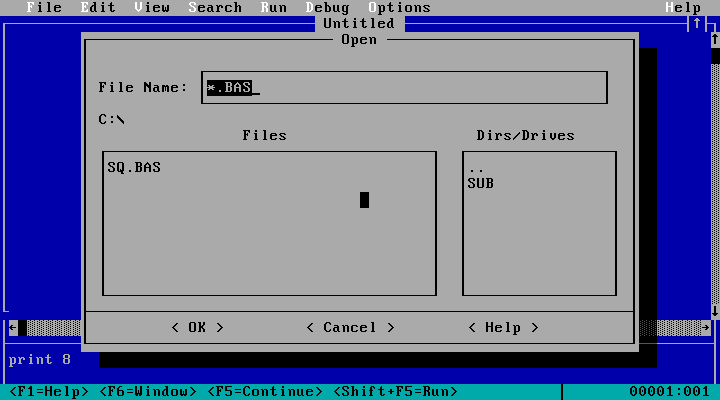
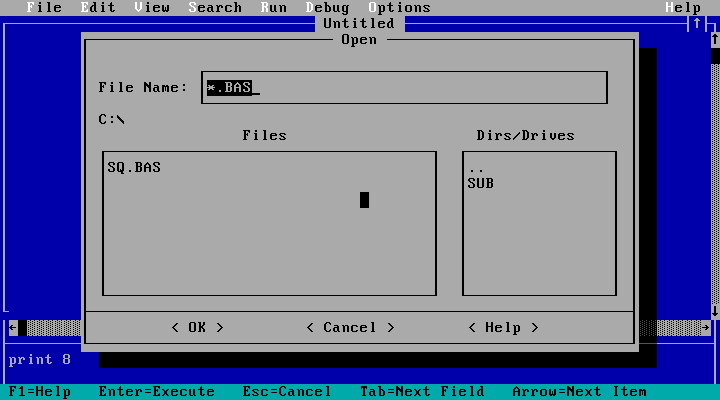
feat(x86): IDE status lines as QBasic's

Changed region(s): [[0.0, 0.96, 0.6722, 1.0], [0.7028, 0.96, 1.0, 0.99]]

diff --git a/tools/x86ide_test.py b/tools/x86ide_test.py
@@ -97,7 +97,8 @@ def play() -> None:
     press("home")  # past the indent Enter kept
     keys("next\n")
     assert text()[:3] == ["FOR I=1 TO 3", "  PRINT I*I", "NEXT"], text()
-    look("editor")
+    # QBasic's status lines (qbasmsgs.txt), less the keys we lack.
+    assert look("editor")[24].startswith(" <SHIFT+F1=HELP> <F6=WINDOW> <F5=RUN>  "), look()[24]
     press(f"0x{F5:x}")
     look("output")
     out = output()
@@ -107,6 +108,7 @@ def play() -> None:
     # The immediate window: output on page 1. The prompt once stayed there,
     # in front of the next output.
     press("f6")
+    assert look()[24].startswith(" <SHIFT+F1=HELP> <F6=WINDOW> <ENTER=EXECUTE LINE>  "), look()[24]
     keys("print 6*7\n")
     press("space")
     assert output()[24] == "", output()
@@ -123,7 +125,9 @@ def play() -> None:
     s.resume(100)  # Alt let go while the menu waits
     press("down")
     scr = look()
-    assert any("OPEN..." in r for r in scr) and "LOADS A FILE" in scr[24], scr
+    assert any("OPEN..." in r for r in scr) and scr[24].startswith(" F1=HELP   LOADS A FILE"), scr
+    bar = s.send({"cmd": "mem_read_linear", "addr": 0xB8000 + 24 * 160 + 18, "len": 1})["data"]
+    assert bar.lower() == "b3", bar  # F1=Help │
     press("esc", "esc")
     # Alt held on: Alt+Down and Alt+letter come as other keys, which the menu
     # ignored, so it worked only once Alt was let go.
@@ -165,8 +169,9 @@ def play() -> None:
     keys("goto 99\n")
     press(f"0x{F5:x}")
     scr = look("error")
-    assert any("UNDEF'D STATEMENT ERROR" in r for r in scr) and scr[24].endswith("00005:001"), scr
+    assert any("UNDEF'D STATEMENT ERROR" in r for r in scr) and scr[24].startswith(" F1=HELP   ENTER=EXECUTE"), scr
     press("enter")
+    assert look()[24].endswith("00005:001"), look()[24]
 
     # New: the unsaved text asks first; N, its button's letter, answers No.
     press(f"0x{ALT_F:x}", "n")
@@ -177,6 +182,7 @@ def play() -> None:
     # Open. Its header was two bytes too long: controls drawn from garbage.
     press(f"0x{ALT_F:x}", "o")
     scr = look("open")
+    assert scr[24].rstrip() == " F1=HELP   ENTER=EXECUTE   ESC=CANCEL   TAB=NEXT FIELD   ARROW=NEXT ITEM", scr[24]
     assert "FILE NAME:  *.BAS" in "\n".join(scr) and any(r.split() == ["SQ.BAS", ".."] for r in scr), scr
     press("tab", "enter")
     assert "SQ.BAS" in look()[1] and text()[:3] == ["FOR I=1 TO 3", "  PRINT I*I", "NEXT"], look()
@@ -231,8 +237,8 @@ def play() -> None:
     mouse(4, 1, False)
     s.resume(100)
     assert attrs(2)[1] == attrs(3)[1] == 0x71 and attrs(4)[1] == 0x17, (attrs(2)[:4], attrs(4)[:4])
-    # <Shift+F5=Run> on the status bar.
-    click(24, 40)
+    # <F5=Run> on the status bar.
+    click(24, 32)
     s.resume(300)
     assert output()[:3] == [" 1", " 4", " 9"], output()
     press("space")
